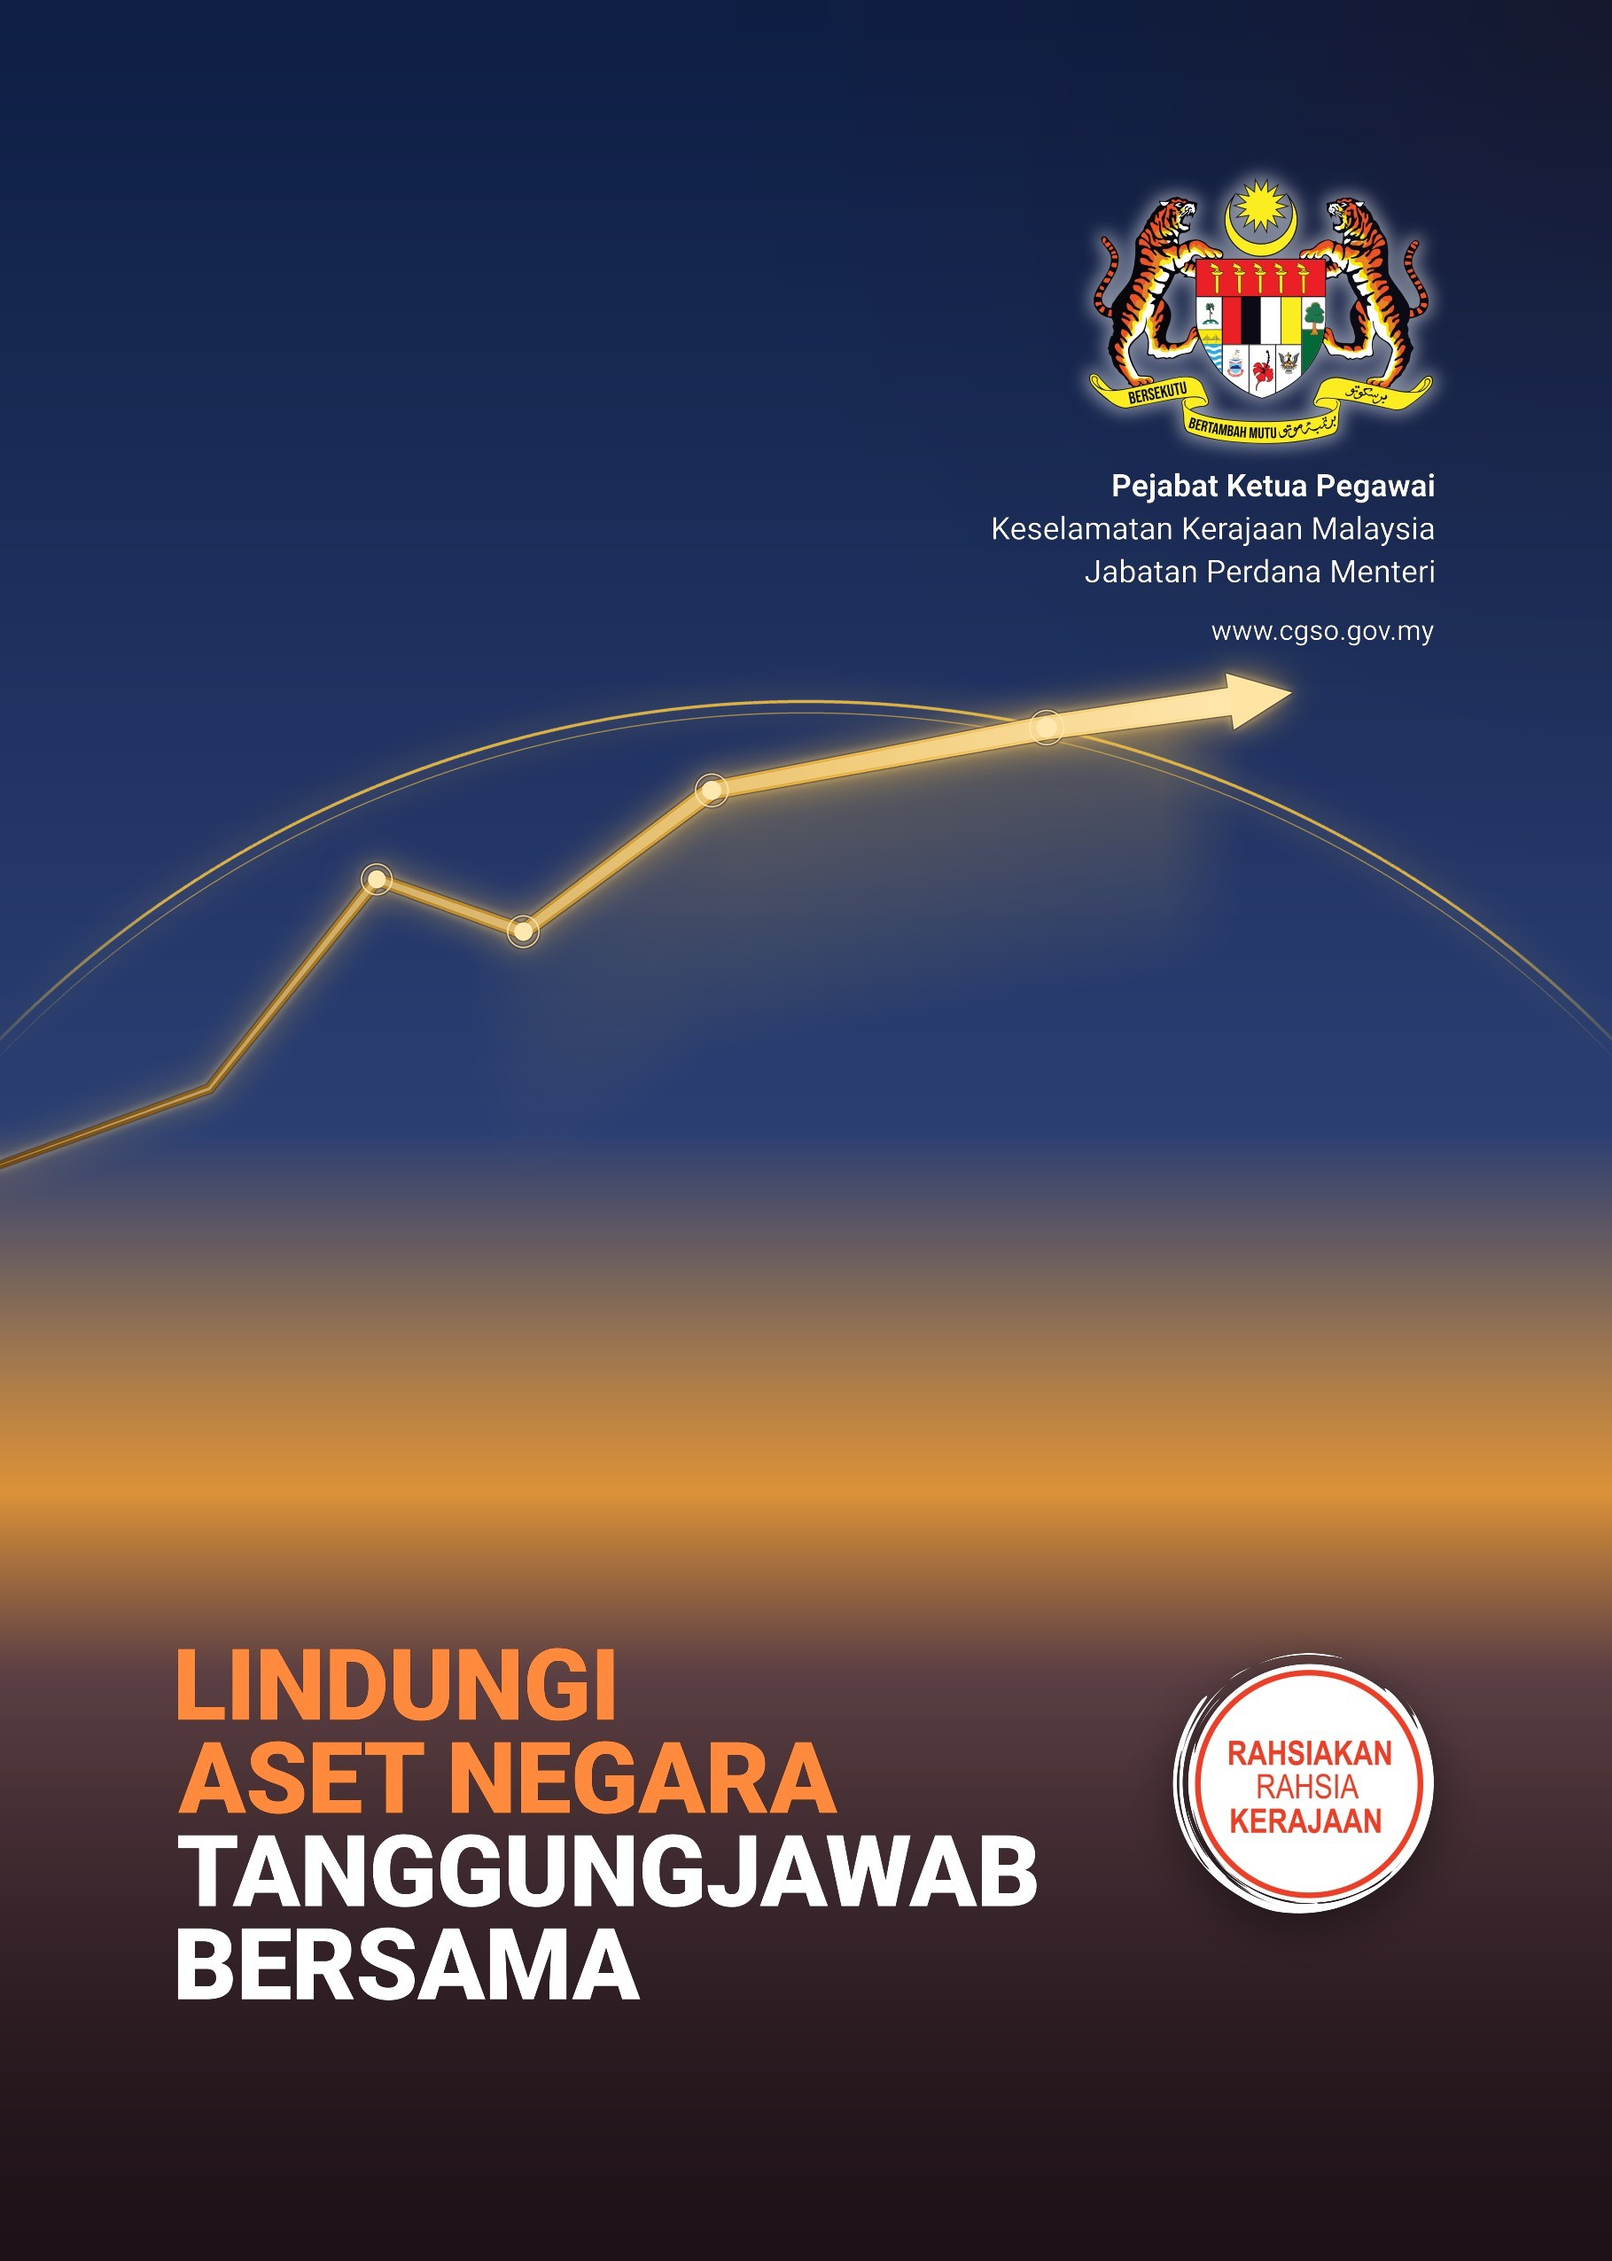
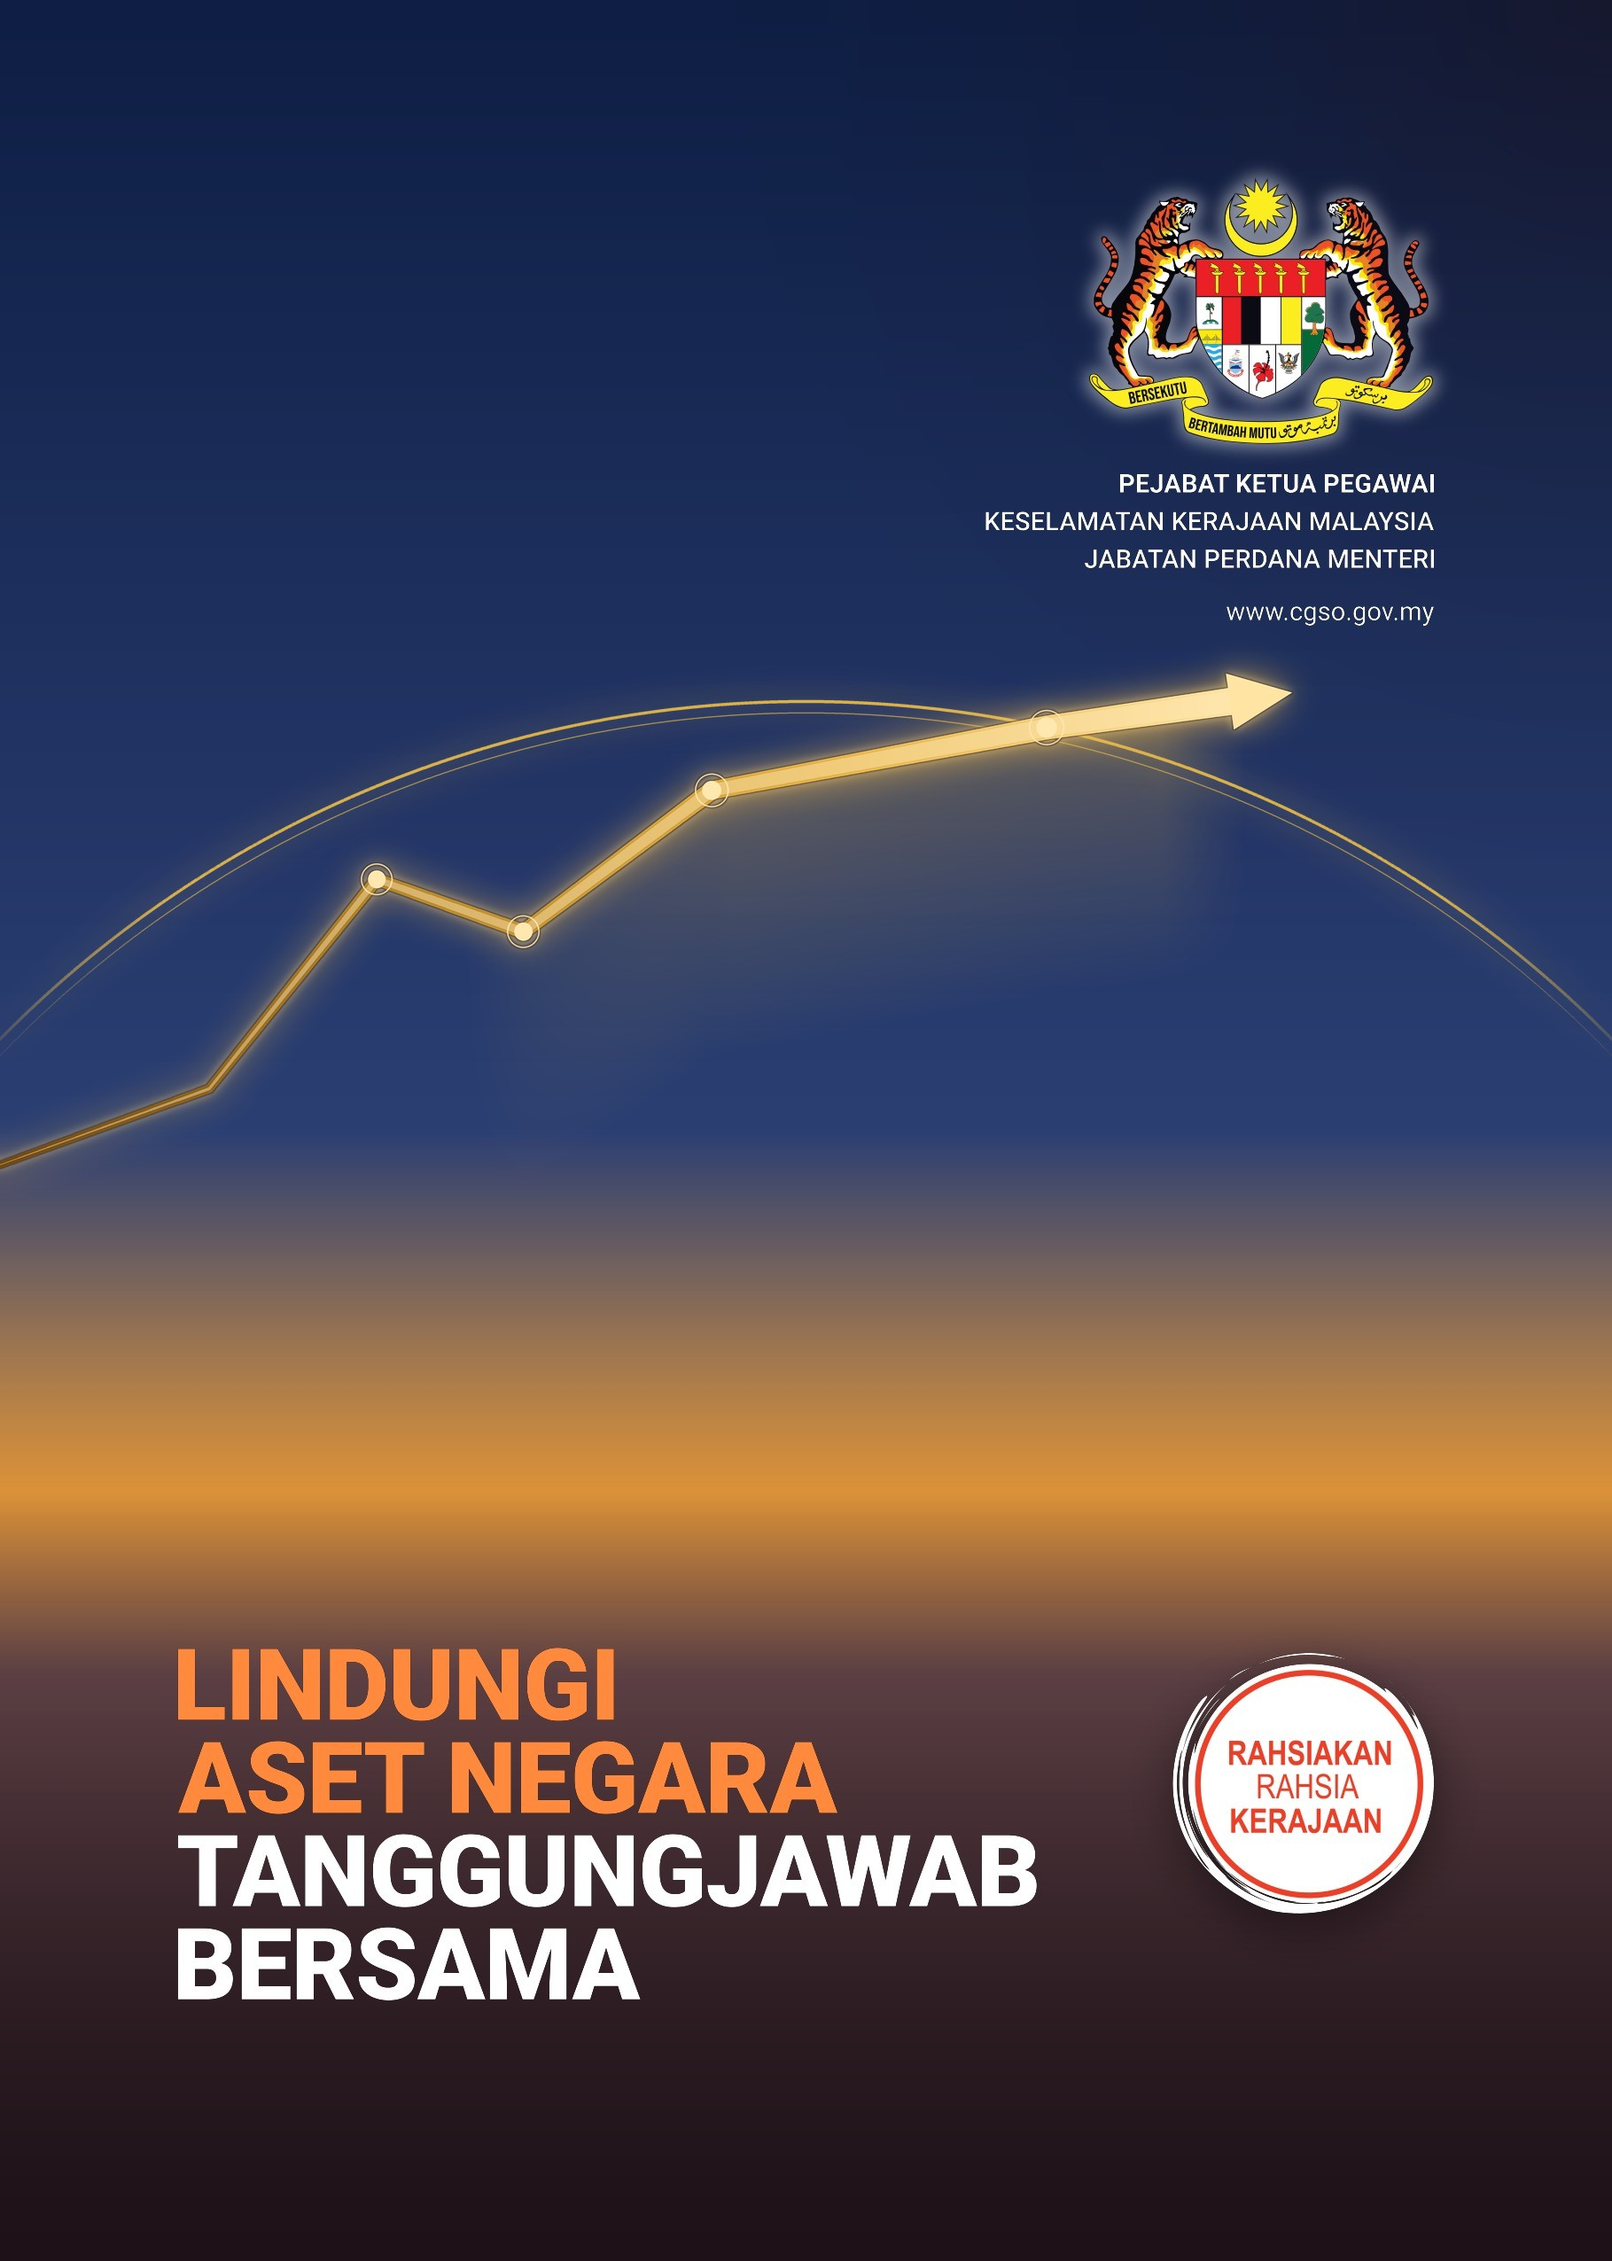
Address block in ALL CAPS, as on the 2024 sample
PEJABAT KETUA PEGAWAI (Bold) / KESELAMATAN KERAJAAN MALAYSIA / JABATAN PERDANA MENTERI
(Medium), www.cgso.gov.my unchanged in lower case. 7 pt Roboto caps reproduces the
sample's line widths (30.0 / 42.8 / 33.4 mm vs 31.6 / 42 / 33.5 mm); leading 3.6 mm.
Contrast worst 1%: 5.3 / 9.2 / 5.3. Readme and deck updated.

Claude-Session: https://claude.ai/code/session_01Tw5UnJa8MtZgySYWAndeu3

Changed region(s): [[0.6157, 0.1858, 0.8928, 0.2787]]

diff --git a/_scripts/package.py b/_scripts/package.py
@@ -52,7 +52,8 @@ KANDUNGAN FOLDER
 
 LOGO DAN CIRI KESELAMATAN (semakan 29 Oktober 2026)
   - Jata Negara 33 mm; logo "Rahsiakan Rahsia Kerajaan" 29 mm, lebih kecil daripada Jata dan
-    sejajar dengan tajuk. Saiz teks mengikut sampel kulit 2024.
+    sejajar dengan tajuk. Saiz teks mengikut sampel kulit 2024; blok alamat dalam huruf besar
+    seperti sampel.
   - Setiap konsep: corak guilloche (teknik keselamatan wang kertas dan pasport) dan teks mikro
     "RAHSIAKAN RAHSIA KERAJAAN" di sekeliling kulit, 8 mm dari garis potong, dan benang keselamatan
     emas bertingkap (dengan teks mikro) di tepi kanan, 5 mm dari garis potong (boleh dicetak dengan
@@ -67,7 +68,7 @@ NOTA UNTUK PENCETAK
   - Had dakwat 300% (maksimum sebenar 285%). Hitam Jata Negara 100% K.
   - Sudut buku bulat: dianggarkan ~6 mm. Semua elemen penting berada dalam kawasan selamat
     10 mm dari garis potong.
-  - Teks putih kecil pada blok alamat (7.5 - 8.5 pt) adalah knockout empat warna; minta
+  - Teks putih kecil pada blok alamat (7 pt, huruf besar) adalah knockout empat warna; minta
     pencetak menyemak registration.
   - Pruf fizikal (contract proof atau press proof) disyorkan sebelum cetakan penuh.
   - Fail dibina mengikut keperluan PDF/X-4 tetapi belum disahkan oleh alat preflight.

diff --git a/_scripts/build_template.py b/_scripts/build_template.py
@@ -94,13 +94,15 @@ RIGHT = TRIM_W - MARGIN
 JATA_RECT_MM = (RIGHT - JATA_W, MARGIN, RIGHT, MARGIN + JATA_H)
 
 # Office block (right-aligned on the ink edge), following the 2024/2025 hierarchy
-OFFICE_SIZE, WWW_SIZE, OFFICE_LEAD = 8.5, 7.5, 4.1
+# Client revision 29 Oct: ALL CAPS, as on the 2024 printed sample. At 7 pt Roboto caps the three lines are
+# 30.0 / 42.8 / 33.4 mm of ink, matching the sample's 31.6 / 42 / 33.5 mm: the sample's footprint.
+OFFICE_SIZE, WWW_SIZE, OFFICE_LEAD = 7.0, 7.0, 3.6
 cap = 0.711 * OFFICE_SIZE / MM
 b1 = JATA_RECT_MM[3] + 2.8 + cap
 OFFICE_LINES = [
-    ("Pejabat Ketua Pegawai", "Bold", OFFICE_SIZE, b1),
-    ("Keselamatan Kerajaan Malaysia", "Regular", OFFICE_SIZE, b1 + OFFICE_LEAD),
-    ("Jabatan Perdana Menteri", "Regular", OFFICE_SIZE, b1 + 2 * OFFICE_LEAD),
+    ("PEJABAT KETUA PEGAWAI", "Bold", OFFICE_SIZE, b1),
+    ("KESELAMATAN KERAJAAN MALAYSIA", "Medium", OFFICE_SIZE, b1 + OFFICE_LEAD),
+    ("JABATAN PERDANA MENTERI", "Medium", OFFICE_SIZE, b1 + 2 * OFFICE_LEAD),
     ("www.cgso.gov.my", "Regular", WWW_SIZE, b1 + 3 * OFFICE_LEAD + 1.4),
 ]
 

diff --git a/_scripts/build_present.py b/_scripts/build_present.py
@@ -146,7 +146,7 @@ specs = [
     ("Saiz", "A5 (148 × 210 mm) + bleed 3 mm setiap sisi, resolusi 300 ppi."),
     ("Fail diserahkan", "PDF cetakan CMYK (logo Jata Negara, teks dan logo \"Rahsiakan Rahsia Kerajaan\" dalam bentuk vektor), "
                         "PSD berlapis boleh sunting, JPG pratonton, pruf warna dan mockup."),
-    ("Tipografi & logo", "Roboto; tajuk utama Roboto Black. Saiz teks mengikut sampel kulit 2024. Jata Negara 33 mm, logo "
+    ("Tipografi & logo", "Roboto; tajuk utama Roboto Black. Saiz teks mengikut sampel kulit 2024; blok alamat huruf besar. Jata Negara 33 mm, logo "
                          "\"Rahsiakan Rahsia Kerajaan\" 29 mm (lebih kecil daripada Jata), sejajar dengan tajuk."),
     ("Ciri keselamatan", "Setiap konsep: corak guilloche (teknik keselamatan wang kertas dan pasport), teks mikro "
                          "\"Rahsiakan Rahsia Kerajaan\" di sekeliling kulit, dan benang keselamatan emas bertingkap (teks mikro) "
